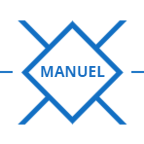
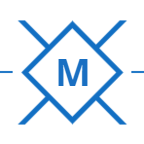
color changed

Changed region(s): [[0.2778, 0.3889, 0.7222, 0.6111]]

diff --git a/assets/css/style.css b/assets/css/style.css
@@ -36,7 +36,7 @@ html, body {
  * Background colors 
  */
 .blue-bg {
-  background-color: #196fc2;
+  background-color: #254870;
 }
 
 /* 
@@ -44,13 +44,13 @@ html, body {
  */
 .btn {
   font-family: "Varela", sans-serif;
-  background-color: #196fc2;
+  background-color: #254870;
   padding: 0 15px;
   color: #ffffff;
   height: 44px;
   line-height: 42px;
   border-radius: 0;
-  border: 1px solid #196fc2;
+  border: 1px solid #254870;
   text-transform: uppercase;
 }
 
@@ -70,8 +70,8 @@ html, body {
 .btn-inverted:hover,
 .btn-inverted:focus {
   color: #ffffff;
-  background-color: #196fc2;
-  border-color: #196fc2;
+  background-color: #254870;
+  border-color: #254870;
 }
 
 /* 
@@ -117,7 +117,7 @@ html, body {
   margin: 0 auto;
   width: 230px;
   height: 230px;
-  background-color: #196fc2;
+  background-color: #254870;
   border: 0;
   transform: translate(-50%, -50%) rotate(45deg);
   -webkit-transform: translate(-50%, -50%) rotate(45deg);
@@ -279,7 +279,7 @@ html, body {
   position: relative;
   padding: 0 30px 0 15px;
   height: 60px;
-  background-color: #004b91;
+  background-color: #2b5483;
   z-index: 2;
 }
 
@@ -290,7 +290,7 @@ html, body {
   height: 100%;
   top: 0;
   right: 0;
-  background-color: #004b91;
+  background-color: #2b5483;
 }
 
 .site-logo a {
@@ -306,7 +306,7 @@ html, body {
 
 /* Navigation */
 .site-navigation {
-  background-color: #196fc2;
+  background-color: #254870;
 }
 
 .site-navigation.affix {
@@ -425,7 +425,7 @@ html, body {
 /* HERO
 ================================================== */
 .hero {
-  background: url(../img/hero.jpg) center no-repeat;
+  background: url(../img/hero.png) center no-repeat;
   height: 100%;
   width: 100%;
   display: table;
@@ -435,7 +435,7 @@ html, body {
 
 .background-overlay:before {
   content: '';
-  background-color: rgba(0, 0, 0, 0.5);
+  background-color: rgba(0, 0, 0, 0);
   height: 100%;
   width: 100%;
   position: absolute;
@@ -605,7 +605,7 @@ html, body {
   font-family: "Varela", sans-serif;
   margin: 0;
   font-size: 32px;
-  color: #196fc2;
+  color: #254870;
   text-align: center;
   text-transform: uppercase;
 }
@@ -899,7 +899,7 @@ html, body {
 
 .progress-bar {
   position: relative;
-  background-color: #196fc2;
+  background-color: #254870;
   height: 10px;
 }
 
@@ -912,7 +912,7 @@ html, body {
   height: 0;
   border-style: solid;
   border-width: 0 15px 20px 15px;
-  border-color: transparent transparent #196fc2 transparent;
+  border-color: transparent transparent #254870 transparent;
   z-index: 2;
 }
 
@@ -1033,7 +1033,7 @@ html, body {
 .section-services .nav-tabs .col-sm-fifth {
   height: 160px;
   background: #ffffff;
-  border-bottom: 3px solid #196fc2;
+  border-bottom: 3px solid #254870;
 }
 
 .section-services .carousel-inner {
@@ -1082,8 +1082,8 @@ html, body {
 }
 
 .section-services .item-controls .carousel-control:hover, .section-services .item-controls .carousel-control:focus {
-  background-color: #196fc2;
-  border-color: #196fc2;
+  background-color: #254870;
+  border-color: #254870;
 }
 
 .section-services .item-controls .carousel-control:hover i, .section-services .item-controls .carousel-control:focus i {
@@ -1151,7 +1151,7 @@ html, body {
 
 .carousel-indicators .active .col-sm-fifth,
 .carousel-indicators a:hover .col-sm-fifth {
-  background-color: #196fc2;
+  background-color: #254870;
 }
 
 .carousel-indicators .active .service p,
@@ -1174,7 +1174,7 @@ html, body {
 }
 
 .carousel-indicators .active .service .rectangle {
-  color: #196fc2;
+  color: #254870;
 }
 
 .carousel-indicators .active .service:after {
@@ -1188,7 +1188,7 @@ html, body {
   height: 0;
   border-style: solid;
   border-width: 15px 15px 0 15px;
-  border-color: #196fc2 transparent transparent transparent;
+  border-color: #254870 transparent transparent transparent;
   z-index: 99;
 }
 
@@ -1286,7 +1286,7 @@ html, body {
 
 .review-carousel .slick.rectangle:hover {
   background-color: #ffffff;
-  color: #196fc2;
+  color: #254870;
 }
 
 .review-carousel .slick.rectangle.slick-next {
@@ -1462,7 +1462,7 @@ html, body {
 .team-member .team-member-back {
   padding: 0 20px;
   display: table;
-  background: #196fc2;
+  background: #254870;
   text-align: center;
   color: #ffffff;
   transform: rotateY(-180deg);
@@ -1540,7 +1540,7 @@ html, body {
 }
 
 .section-history .section-diff-title h2 {
-  color: #196fc2;
+  color: #254870;
 }
 
 .section-history .section-diff-title p {
@@ -1642,7 +1642,7 @@ html, body {
 
 .timeline > li > .timeline-panel .timeline-heading .timeline-date {
   padding: 0 10px;
-  background-color: #196fc2;
+  background-color: #254870;
 }
 
 .timeline > li > .timeline-panel .timeline-heading .timeline-position {
@@ -1789,7 +1789,7 @@ html, body {
   margin: 0;
   border-top: 1px solid #f6f6f6;
   border-right: 1px solid #f6f6f6;
-  border-bottom: 2px solid #196fc2;
+  border-bottom: 2px solid #254870;
   height: 47px;
 }
 
@@ -1810,13 +1810,13 @@ html, body {
 }
 
 .portfolio-sorting li a:hover, .portfolio-sorting li a.active {
-  background-color: #196fc2;
+  background-color: #254870;
   color: #ffffff;
-  border-color: #196fc2;
+  border-color: #254870;
 }
 
 .portfolio-sorting li a:hover:after, .portfolio-sorting li a.active:after {
-  border-color: #196fc2;
+  border-color: #254870;
 }
 
 .portfolio-sorting li a:after, .portfolio-sorting li a.acitve:after {
@@ -1844,7 +1844,7 @@ html, body {
   height: 0;
   border-style: solid;
   border-width: 10px 10px 0 10px;
-  border-color: #196fc2 transparent transparent transparent;
+  border-color: #254870 transparent transparent transparent;
   z-index: 99;
 }
 
@@ -1875,7 +1875,7 @@ html, body {
 
 .portfolio-item .portfolio-item-thumb:after {
   content: '';
-  background-color: #196fc2;
+  background-color: #254870;
   position: absolute;
   left: 0;
   right: 0;
@@ -1960,8 +1960,8 @@ html, body {
 }
 
 .portfolio-item:hover .portfolio-item-thumb .rectangle:hover {
-  background-color: #196fc2;
-  border-color: #196fc2;
+  background-color: #254870;
+  border-color: #254870;
   color: #ffffff;
 }
 
@@ -2051,7 +2051,7 @@ html, body {
 }
 
 .section-quote p span {
-  color: #196fc2;
+  color: #254870;
 }
 
 /* Sections background: Me */
@@ -2171,7 +2171,7 @@ html, body {
 
 .section-contact .btn:hover {
   color: #ffffff;
-  border-color: #196fc2;
+  border-color: #254870;
 }
 
 .form-control {
@@ -2184,7 +2184,7 @@ html, body {
 
 .form-control:focus {
   box-shadow: none;
-  border-bottom-color: #196fc2;
+  border-bottom-color: #254870;
 }
 
 textarea.form-control {
@@ -2225,7 +2225,7 @@ textarea.form-control {
 
 .section-networks a:hover, .section-networks a:focus {
   background-color: #ffffff;
-  color: #196fc2;
+  color: #254870;
 }
 
 /* FOOTER
@@ -2256,7 +2256,7 @@ textarea.form-control {
 }
 
 .site-footer ul a:hover {
-  color: #196fc2;
+  color: #254870;
 }
 
 .site-footer a {
@@ -2266,7 +2266,7 @@ textarea.form-control {
 }
 
 .site-footer a:hover {
-  color: #196fc2;
+  color: #254870;
 }
 
 .site-footer .rectangle {
@@ -2284,7 +2284,7 @@ textarea.form-control {
 }
 
 .site-footer .rectangle:hover {
-  background-color: #196fc2;
+  background-color: #254870;
   color: #ffffff;
 }
 
@@ -2341,7 +2341,7 @@ textarea.form-control {
   top: -20px;
   height: 40px;
   width: 40px;
-  background-color: #196fc2;
+  background-color: #254870;
   color: #ffffff;
   box-shadow: none;
   border: 0;
@@ -2350,8 +2350,8 @@ textarea.form-control {
 
 .modal-header .rectangle:hover {
   background-color: #ffffff;
-  color: #196fc2;
-  border-color: #196fc2;
+  color: #254870;
+  border-color: #254870;
 }
 
 .modal-header,
@@ -2365,8 +2365,8 @@ textarea.form-control {
 
 .modal-footer .btn:hover {
   background-color: #ffffff;
-  color: #196fc2;
-  border-color: #196fc2;
+  color: #254870;
+  border-color: #254870;
 }
 
 .modal-content {

diff --git a/index.html b/index.html
@@ -83,7 +83,7 @@
                     
                     <!-- Name -->
                     <div class="page-scroll site-logo">
-                        <a href="#top">Manuel</a>
+                        <a href="#top">Manuel J Molina</a>
                     </div>
 
                 </div><!-- /.navbar-header -->
@@ -98,7 +98,7 @@
                         <li class="page-scroll"><a href="#projects">Projects</a></li>
                         <li class="page-scroll"><a href="#about">Skills</a></li>
                         <li class="page-scroll"><a href="#services">About Me</a></li>
-                        <li class="page-scroll"><a href="#history">Resume</a></li>
+                        <li class="page-scroll"><a href="assets/img/Resume_Manuel_Molina.pdf">Resume</a></li>
                         <li class="page-scroll"><a href="#contact">Contact</a></li>
                         
                     </ul><!-- /.navbar-nav -->
